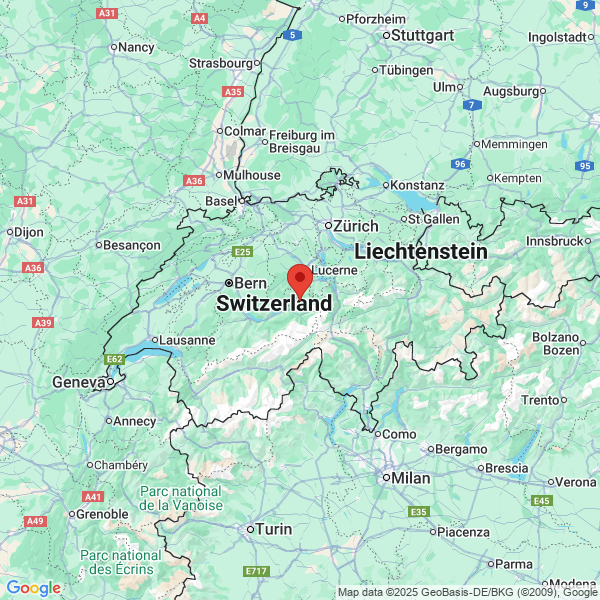
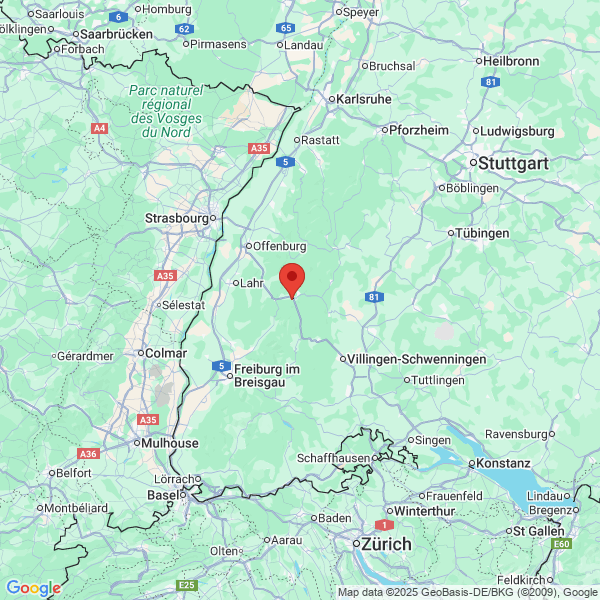
Made the page wider, and added City description when selected

diff --git a/app.py b/app.py
@@ -107,6 +107,7 @@ def getCurrentLocation():
 
   # get location in latitude and longitude format
   google_maps_api_url= f"https://www.googleapis.com/geolocation/v1/geolocate?key={google_maps_api_key}"
+  
   location_response = requests.post(google_maps_api_url)
 
   if location_response.status_code == 200:
@@ -250,6 +251,7 @@ def addCityToList():
 
     new_city_rank=len(streamlit.session_state["top10cities"])+1
     streamlit.session_state["top10cities"].append({'rank': new_city_rank, 'city': search_city_entry['city'], 'country': search_city_entry['country'], 'interests': search_city_entry['interests']})
+    streamlit.session_state["selected_cities"].append(f"{new_city_rank}. {search_city_entry['city']}, {search_city_entry['country']}")
 
 def loadDestinationColumn2():
   streamlit.session_state["travel_interests"]=streamlit.multiselect("Choose interests: ", ["Kids", "Beach", "Skiing", "History", "Romance", "Party"])
@@ -268,6 +270,31 @@ def loadDestinationColumn2():
     if streamlit.button("Add Selected City to List"):
       addCityToList()
 
+
+def describeSelectedCities():
+  selected_cities=streamlit.session_state["selected_cities"]
+
+  for city_entry in selected_cities:
+    city_entry_num = city_entry.split('.')[0]
+    city_name=streamlit.session_state["top10cities"][int(city_entry_num)-1]['city']
+    country_name=streamlit.session_state["top10cities"][int(city_entry_num)-1]['country']
+
+    if 'city_description' not in streamlit.session_state["top10cities"][int(city_entry_num)-1]:
+    
+      describe_city_query=f"Describe places to visit and things to do in {city_name},{country_name} with respect to tourism under 5 sentences"
+      print(f"GenAI Describe City Query: {describe_city_query}")
+
+      describe_city_response = genAIClient.models.generate_content(
+        model="gemini-2.5-flash",
+        contents=describe_city_query
+      )
+    
+      print(f"Describe ({city_name},{country_name}): {describe_city_response.text}")
+      streamlit.session_state["top10cities"][int(city_entry_num)-1]['city_description'] = describe_city_response.text
+
+    city_description = streamlit.session_state["top10cities"][int(city_entry_num)-1]['city_description']
+    streamlit.success(f"{city_entry_num}. {city_name},{country_name} - {city_description}")
+
 def loadDestinationDetailsFrame():
   streamlit.header("Destination Details")
 
@@ -282,9 +309,11 @@ def loadDestinationDetailsFrame():
   if "selected_cities" in streamlit.session_state and streamlit.session_state["selected_cities"] != []:
     loadMapSelectedCities()
     streamlit.image("selected_cities_map.png")
+    describeSelectedCities()
   elif "top10cities" in streamlit.session_state or "destination" in streamlit.session_state:
     loadDestinationMap()
     streamlit.image("destination_map.png")
+    # describeDestination()
   else:
     getCurrentLocation()
     loadCurrentLocationMap()
@@ -297,5 +326,7 @@ def loadDestinationDetailsFrame():
   #  globals()["travel_interests"]=streamlit.multiselect("Choose interests: ", ["Kids", "Beach", "Skiing", "History", "Romance", "Party"])
 
 streamlit.title("AITinerary")
+streamlit.set_page_config(page_title="AITinerary", layout="wide")
+
 loadTravelDetailsFrame()
 loadDestinationDetailsFrame()
